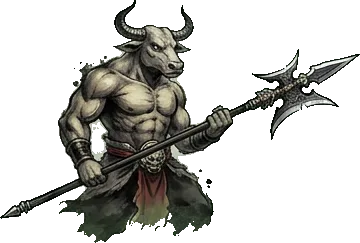
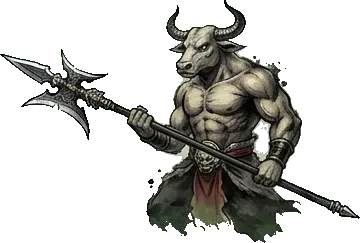
v180: 怪物属性浮动每项单独（攻击1.08~1.25 生命1.21~1.35 其他0.91~1.08）；实力测试用地图怪名和图；m18 翻转朝左

diff --git a/web/index.html b/web/index.html
@@ -6,7 +6,7 @@
 <meta name="theme-color" content="#14110f">
 <meta name="apple-mobile-web-app-capable" content="yes">
 <title>问道长生 · 文字修仙</title>
-<link rel="stylesheet" href="css/style.css?v=127">
+<link rel="stylesheet" href="css/style.css?v=128">
 </head>
 <body class="nologin">
 <div id="app">
@@ -53,76 +53,76 @@
     b.textContent += "脚本错误：" + e.filename.split("/").slice(-2).join("/").split("?")[0] + " 第 " + e.lineno + " 行：" + e.message + "\n";
   });
 </script>
-<script src="js/config/realm.js?v=127"></script>
-<script src="js/config/player.js?v=127"></script>
-<script src="js/config/array.js?v=127"></script>
-<script src="js/config/mobs.js?v=127"></script>
-<script src="js/config/explore.js?v=127"></script>
-<script src="js/config/drops.js?v=127"></script>
-<script src="js/config/worldmaps.js?v=127"></script>
-<script src="js/config/xingjun.js?v=127"></script>
-<script src="js/config/battle.js?v=127"></script>
-<script src="js/config/equip.js?v=127"></script>
-<script src="js/config/start.js?v=127"></script>
-<script src="js/config/gongfa.js?v=127"></script>
-<script src="js/config/lingen.js?v=127"></script>
-<script src="js/config/items.js?v=127"></script>
-<script src="js/config/alchemy.js?v=127"></script>
-<script src="js/config/furnace.js?v=127"></script>
-<script src="js/config/forge.js?v=127"></script>
-<script src="js/config/garden.js?v=127"></script>
-<script src="js/config/trib.js?v=127"></script>
-<script src="js/config/servant.js?v=127"></script>
-<script src="js/config/sect.js?v=127"></script>
-<script src="js/config/wudao.js?v=127"></script>
-<script src="js/config/craftsman.js?v=127"></script>
-<script src="js/config/mijing.js?v=127"></script>
-<script src="js/config/lingdi.js?v=127"></script>
-<script src="js/config/body.js?v=127"></script>
-<script src="js/config/names.js?v=127"></script>
-<script src="js/config/shenshi.js?v=127"></script>
+<script src="js/config/realm.js?v=128"></script>
+<script src="js/config/player.js?v=128"></script>
+<script src="js/config/array.js?v=128"></script>
+<script src="js/config/mobs.js?v=128"></script>
+<script src="js/config/explore.js?v=128"></script>
+<script src="js/config/drops.js?v=128"></script>
+<script src="js/config/worldmaps.js?v=128"></script>
+<script src="js/config/xingjun.js?v=128"></script>
+<script src="js/config/battle.js?v=128"></script>
+<script src="js/config/equip.js?v=128"></script>
+<script src="js/config/start.js?v=128"></script>
+<script src="js/config/gongfa.js?v=128"></script>
+<script src="js/config/lingen.js?v=128"></script>
+<script src="js/config/items.js?v=128"></script>
+<script src="js/config/alchemy.js?v=128"></script>
+<script src="js/config/furnace.js?v=128"></script>
+<script src="js/config/forge.js?v=128"></script>
+<script src="js/config/garden.js?v=128"></script>
+<script src="js/config/trib.js?v=128"></script>
+<script src="js/config/servant.js?v=128"></script>
+<script src="js/config/sect.js?v=128"></script>
+<script src="js/config/wudao.js?v=128"></script>
+<script src="js/config/craftsman.js?v=128"></script>
+<script src="js/config/mijing.js?v=128"></script>
+<script src="js/config/lingdi.js?v=128"></script>
+<script src="js/config/body.js?v=128"></script>
+<script src="js/config/names.js?v=128"></script>
+<script src="js/config/shenshi.js?v=128"></script>
 <!-- 自定义物品、坊市、宗门宝库、地图掉落（不是数值文件） -->
-<script src="js/content/items.js?v=127"></script>
-<script src="js/data/names.js?v=127"></script>
-<script src="js/data/realms.js?v=127"></script>
-<script src="js/data/pills.js?v=127"></script>
-<script src="js/data/cave.js?v=127"></script>
-<script src="js/data/sects.js?v=127"></script>
-<script src="js/data/gongfa.js?v=127"></script>
-<script src="js/data/items.js?v=127"></script>
-<script src="js/data/maps.js?v=127"></script>
-<script src="js/data/jiegf.js?v=127"></script>
-<script src="js/data/craft.js?v=127"></script>
-<script src="js/data/forge.js?v=127"></script>
-<script src="js/data/refstats.js?v=127"></script>
-<script src="js/data/mobs.js?v=127"></script>
+<script src="js/content/items.js?v=128"></script>
+<script src="js/data/names.js?v=128"></script>
+<script src="js/data/realms.js?v=128"></script>
+<script src="js/data/pills.js?v=128"></script>
+<script src="js/data/cave.js?v=128"></script>
+<script src="js/data/sects.js?v=128"></script>
+<script src="js/data/gongfa.js?v=128"></script>
+<script src="js/data/items.js?v=128"></script>
+<script src="js/data/maps.js?v=128"></script>
+<script src="js/data/jiegf.js?v=128"></script>
+<script src="js/data/craft.js?v=128"></script>
+<script src="js/data/forge.js?v=128"></script>
+<script src="js/data/refstats.js?v=128"></script>
+<script src="js/data/mobs.js?v=128"></script>
 
-<script src="js/core/util.js?v=127"></script>
-<script src="js/core/api.js?v=127"></script>
-<script src="js/core/game.js?v=127"></script>
+<script src="js/core/util.js?v=128"></script>
+<script src="js/core/api.js?v=128"></script>
+<script src="js/core/game.js?v=128"></script>
 
-<script src="js/modules/player.js?v=127"></script>
-<script src="js/modules/cave.js?v=127"></script>
-<script src="js/modules/bag.js?v=127"></script>
-<script src="js/modules/custom.js?v=127"></script>
-<script src="js/modules/gongfa.js?v=127"></script>
-<script src="js/modules/sect.js?v=127"></script>
-<script src="js/modules/cultivate.js?v=127"></script>
-<script src="js/modules/trib.js?v=127"></script>
-<script src="js/modules/body.js?v=127"></script>
-<script src="js/modules/world.js?v=127"></script>
-<script src="js/modules/xingjun.js?v=127"></script>
-<script src="js/modules/lingen.js?v=127"></script>
-<script src="js/modules/craft.js?v=127"></script>
-<script src="js/modules/wudao.js?v=127"></script>
-<script src="js/modules/shenshi.js?v=127"></script>
-<script src="js/modules/garden.js?v=127"></script>
-<script src="js/modules/servant.js?v=127"></script>
-<script src="js/modules/gift.js?v=127"></script>
-<script src="js/modules/accounts.js?v=127"></script>
-<script src="js/modules/battleset.js?v=127"></script>
-<script src="js/modules/account.js?v=127"></script>
-<script src="js/core/fastsim.js?v=127"></script>
+<script src="js/modules/player.js?v=128"></script>
+<script src="js/modules/cave.js?v=128"></script>
+<script src="js/modules/bag.js?v=128"></script>
+<script src="js/modules/custom.js?v=128"></script>
+<script src="js/modules/gongfa.js?v=128"></script>
+<script src="js/modules/sect.js?v=128"></script>
+<script src="js/modules/cultivate.js?v=128"></script>
+<script src="js/modules/trib.js?v=128"></script>
+<script src="js/modules/body.js?v=128"></script>
+<script src="js/modules/world.js?v=128"></script>
+<script src="js/modules/xingjun.js?v=128"></script>
+<script src="js/modules/lingen.js?v=128"></script>
+<script src="js/modules/craft.js?v=128"></script>
+<script src="js/modules/wudao.js?v=128"></script>
+<script src="js/modules/shenshi.js?v=128"></script>
+<script src="js/modules/garden.js?v=128"></script>
+<script src="js/modules/servant.js?v=128"></script>
+<script src="js/modules/gift.js?v=128"></script>
+<script src="js/modules/accounts.js?v=128"></script>
+<script src="js/modules/battleset.js?v=128"></script>
+<script src="js/modules/account.js?v=128"></script>
+<script src="js/core/fastsim.js?v=128"></script>
 
 <script>G.init();</script>
 </body>

diff --git a/web/js/modules/sect.js b/web/js/modules/sect.js
@@ -105,8 +105,8 @@ G.module({
     /* ---------- 晋升考验（config/sect.js 的 sect.rankTrial） ---------- */
     rankTrialCost(i) { return Math.floor(((CFG.sect.rankTrial.cost || [])[i] || 0) * this.starMul()); },
     makeRankGuard(i) {
-      const b = DATA.mobStats(DATA.mobExam(this.sectInfo().star, i), DATA.mobCrit("考官")), v = x => x * DATA.mobRnd();   // config/mobs.js 的 sect
-      return this.addMagic({ name: `${DATA.ranks[i].name}考官`, boss: false, hp: v(b.hp), atk: v(b.atk), def: v(b.def), speed: v(b.speed), hit: v(b.hit), dodge: v(b.dodge), mana: v(b.mana), res: v(b.res), manaBr: b.manaBr, L: b.L, crit: b.crit }, "tower");
+      const b = DATA.mobStats(DATA.mobExam(this.sectInfo().star, i), DATA.mobCrit("考官")), v = (x, k) => x * DATA.mobRnd(k);   // config/mobs.js 的 sect
+      return this.addMagic({ name: `${DATA.ranks[i].name}考官`, boss: false, hp: v(b.hp, "hp"), atk: v(b.atk, "atk"), def: v(b.def, "def"), speed: v(b.speed, "speed"), hit: v(b.hit, "hit"), dodge: v(b.dodge, "dodge"), mana: v(b.mana, "mana"), res: v(b.res, "res"), manaBr: b.manaBr, L: b.L, crit: b.crit }, "tower");
     },
     challengeRank() {
       const s = this.s, i = s.rank + 1; if (i >= DATA.ranks.length || s.rankPass === i) return;
@@ -348,7 +348,7 @@ G.module({
     makeTowerGuard(floor) {
       const T = CFG.sect.tower, star = this.sectInfo().star, R = (CFG.sect.REQ_REALM || [])[star - 1] || 0;
       const tw = DATA.towerStage(star, floor, this.towerMax());
-      if (tw) { const m = {}; for (const k of DATA.REF_KEYS) m[k] = tw[k] * DATA.mobRnd(); m.crit = tw.crit; m.manaBr = tw.manaBr; return this.addMagic(Object.assign(m, { name: `第${floor}层守关者`, boss: false }), "tower"); }
+      if (tw) { const m = {}; for (const k of DATA.REF_KEYS) m[k] = tw[k] * DATA.mobRnd(k); m.crit = tw.crit; m.manaBr = tw.manaBr; return this.addMagic(Object.assign(m, { name: `第${floor}层守关者`, boss: false }), "tower"); }
       const m = DATA.refMob(DATA.refStats(R, T.LAYER || 5, T.GF === undefined ? 5 : T.GF), T.MULT, Math.pow(T.GROW, floor - 1)); m.L = R * DATA.LAYERS + (T.LAYER || 5) - 1;
       return this.addMagic(Object.assign(m, { name: `第${floor}层守关者`, boss: false }), "tower");
     },
@@ -424,8 +424,10 @@ G.module({
     },
     testFight() {
       const t = this.testMobT(), kd = this.testPick().k, b = DATA.mobRoll(t, DATA.mobCrit(DATA.MOB_KIND[kd]));   // v168 学哪些功法、每本几层随机
-      const v = x => x * DATA.mobRnd();   // 和地图普通怪一样每项随机浮动
-      const m = this.addMagic({ name: this.testMobName(), kind: kd, boss: kd === "boss", elite: kd === "elite", hp: v(b.hp), atk: v(b.atk), def: v(b.def), speed: v(b.speed), hit: v(b.hit), dodge: v(b.dodge), mana: v(b.mana), res: v(b.res), manaBr: b.manaBr, L: b.L, crit: b.crit }, kd);
+      const v = (x, k) => x * DATA.mobRnd(k);   // 和地图普通怪一样每项随机浮动
+      const p = this.testPick(), a = Math.floor(p.a / 4), r = p.a % 4, mp = DATA.maps[a];   // v180 名字 / 图同地图里的怪（图按名字找）
+      const nm = kd === "boss" ? DATA.regionBoss(a, r) : (kd === "elite" ? "精英·" : "") + U.pick(mp.monsters);
+      const m = this.addMagic({ name: nm, a, kind: kd, boss: kd === "boss", elite: kd === "elite", hp: v(b.hp, "hp"), atk: v(b.atk, "atk"), def: v(b.def, "def"), speed: v(b.speed, "speed"), hit: v(b.hit, "hit"), dodge: v(b.dodge, "dodge"), mana: v(b.mana, "mana"), res: v(b.res, "res"), manaBr: b.manaBr, L: b.L, crit: b.crit }, kd);
       const res = this.battle(m, { test: true });
       this.playBattle(res.detail, "实力测试", "", true, [], false, { test: true, tname: this.testMobName() });
     },
@@ -436,7 +438,7 @@ G.module({
       const st = [["生命", b.hp], ["攻击", b.atk], ["防御", b.def], ["速度", b.speed], ["命中", b.hit], ["闪避", b.dodge], ["法力", b.mana], ["抗性", b.res]].map(([k, v]) => `${k} ${U.fmt(v)}`).join("　") + `　暴击 ${U.num(b.crit)}%`;
       return `<div class="card"><h3>实力测试<small>不扣生命，可随时关闭</small></h3>
         <div class="line"><div>对手</div><div class="sg-btns">${this.selBox("testA", this.testMapOpts(), p.a, v => this.setTestPick("a", +v))}${this.selBox("testK", kOpts, p.k, v => this.setTestPick("k", v))}</div></div>
-        <p class="desc">${this.testMobName()}：${DATA.realms[R.realm] || ""}${R.lay[0] === R.lay[1] ? DATA.layerNames[R.lay[0] - 1] : `${rg(R.lay)}层随机`}（属性为平均值，战斗时每项 ×${(CFG.mobs.RAND || [1, 1]).join("~")} 随机）<br>${st}</p>
+        <p class="desc">${this.testMobName()}：${DATA.realms[R.realm] || ""}${R.lay[0] === R.lay[1] ? DATA.layerNames[R.lay[0] - 1] : `${rg(R.lay)}层随机`}（属性为平均值，战斗时攻击 ×${DATA.mobRandOf("atk").join("~")}、生命 ×${DATA.mobRandOf("hp").join("~")}、其他 ×${DATA.mobRandOf("def").join("~")} 随机）<br>${st}</p>
         <p class="desc">法术：每回合 ${M.spell ? M.spell.chance : 0}% 几率，伤害 攻击×${M.spell ? M.spell.pct : 0}%　法宝：每回合 ${M.fabao ? M.fabao.chance : 0}% 几率，伤害 攻击×${M.fabao ? M.fabao.pct : 0}%</p>
         ${n ? (() => { return `<details class="desc"><summary>功法：${t[3] > 1 ? `1~${t[3]}` : t[3]}星宗门功法 ${n} 部，每个种类随机学 ${rg(R.pct)}%，每本随机练到 ${rg(R.gf)} 层（显示属性为平均值）</summary>${gf.map(([nm, l]) => `<p><b>${nm}</b>：${l.join("、")}</p>`).join("")}</details>`; })() : `<p class="desc">功法：无</p>`}
         <div class="btns"><button onclick="G.testFight()">开始测试</button></div></div>`;

diff --git a/web/js/modules/world.js b/web/js/modules/world.js
@@ -104,10 +104,10 @@ G.module({
     // 生成怪物：a 地图、r 区域、kind = normal 普通 / elite 精英 / boss 首领（属性见 js/config/ 数值文件 monster.regions）
     makeMob(a, r, kind) {
       const R = DATA.region(a, r), b = DATA.mobMeet(R, kind), map = DATA.maps[a];   // v168 每次遇到随机层 / 功法
-      const v = x => x * DATA.mobRnd();   // × 随机浮动
+      const v = (x, k) => x * DATA.mobRnd(k);   // × 随机浮动
       const name = kind === "boss" ? DATA.regionBoss(a, r) : (kind === "elite" ? "精英·" : "") + U.pick(map.monsters);
       return this.addMagic({ name, Lm: R.L, kind, boss: kind === "boss", elite: kind === "elite",
-        hp: v(b.hp), atk: v(b.atk), def: v(b.def), speed: v(b.speed), hit: v(b.hit), dodge: v(b.dodge), mana: v(b.mana), res: v(b.res), manaBr: b.manaBr, L: b.L, crit: b.crit }, kind);
+        hp: v(b.hp, "hp"), atk: v(b.atk, "atk"), def: v(b.def, "def"), speed: v(b.speed, "speed"), hit: v(b.hit, "hit"), dodge: v(b.dodge, "dodge"), mana: v(b.mana, "mana"), res: v(b.res, "res"), manaBr: b.manaBr, L: b.L, crit: b.crit }, kind);
     },
 
     // 给怪物加 属性 / 六系抗性 / 法术 / 法宝（config/mobs.js 的 mobs.magic）
@@ -764,10 +764,10 @@ G.module({
     },
     // 秘境 / 灵地怪物：属性在 js/data/mobs.js 按 config/mobs.js 生成
     makeMjMob(i, kind, k) {
-      const d = this.mjDef(i, k), b = DATA.mobMeet(d, kind), v = x => x * DATA.mobRnd();
+      const d = this.mjDef(i, k), b = DATA.mobMeet(d, kind), v = (x, k) => x * DATA.mobRnd(k);
       const name = kind === "boss" ? d.bossName : (kind === "elite" ? "精英·" : "") + U.pick(d.monsters);
       return this.addMagic({ name, Lm: d.L, kind, boss: kind === "boss", elite: kind === "elite",
-        hp: v(b.hp), atk: v(b.atk), def: v(b.def), speed: v(b.speed), hit: v(b.hit), dodge: v(b.dodge), mana: v(b.mana), res: v(b.res), manaBr: b.manaBr, L: b.L, crit: b.crit }, kind);
+        hp: v(b.hp, "hp"), atk: v(b.atk, "atk"), def: v(b.def, "def"), speed: v(b.speed, "speed"), hit: v(b.hit, "hit"), dodge: v(b.dodge, "dodge"), mana: v(b.mana, "mana"), res: v(b.res, "res"), manaBr: b.manaBr, L: b.L, crit: b.crit }, kind);
     },
     // 秘境 / 灵地掉落 = 借用地图的药材矿石表（种数个数按 CFG.dropRule.mijing / lingdi，× 自己的 mat）+ extra 额外掉落
     //   秘境借用 drops 那张凡界地图；灵地借用发现地图（这一界的药材矿石表）

diff --git a/web/js/config/mobs.js b/web/js/config/mobs.js
@@ -31,7 +31,7 @@
  *               + 肉身突破属性（肉身突破到同样层数的合计，见 config/realm.js 的 BODY_GAIN）
  *   功法属性 = 1 ~ 功法星级、功法来源里的全部功法、全部类别都练到「功法层」的加成
  *   怪物基础属性 = (人物境界属性 + 宗门功法属性) × 倍率        （装备、丹药、灵根、秘法都不算）
- *   遇到时：生命 / 攻击 / 防御 / 速度 / 命中 / 闪避 / 法力 = 怪物基础属性 × 随机(RAND[0] ~ RAND[1])，每项各自随机
+ *   遇到时：每项属性 = 怪物基础属性 × 随机(RAND 里这项的 [最小, 最大])，每项各自随机
  *   暴击% = 下面 CRIT（固定，不乘倍率、不浮动）
  *   总层序 = 境界 × 10 + 层 − 1；肉身按同样层数算（例：金丹三层 = 肉身锻骨三层）
  *
@@ -41,7 +41,12 @@
 window.CFG = window.CFG || {};
 
 CFG.mobs = {
-  RAND: [0.98, 1.08],   // 随机浮动：遇到时每项属性各自 × 随机(0.98 ~ 1.08)
+  // 随机浮动（v180 每种属性单独设置）：遇到时每项属性各自 × 随机(最小 ~ 最大)；没写的属性用「其他」
+  RAND: {
+    atk: [1.08, 1.25],   // 攻击
+    hp: [1.21, 1.35],    // 气血（生命）
+    其他: [0.91, 1.08],  // 防御、速度、命中、闪避、法力、抗性
+  },
 
   FAN_L: [0, 3, 6, 9],   // 凡界区域层序 L = 地图序号(0起) × 10 + 这个（东 西 南 北）；只用来算灵石掉落（config/drops.js）
 

diff --git a/web/js/modules/xingjun.js b/web/js/modules/xingjun.js
@@ -88,9 +88,9 @@ G.module({
     },
     // NPC：属性按 config/mobs.js 的 [进入境界, 境界, 层, 功法层, 倍率]（tu）生成；ck = 暴击分类（天将 / 星君 / 界主）
     xjNpc(a, name, tu, ck) {
-      const b = DATA.mobRoll(tu, DATA.mobCrit(ck)), v = x => x * DATA.mobRnd();   // v168 功法随机
+      const b = DATA.mobRoll(tu, DATA.mobCrit(ck)), v = (x, k) => x * DATA.mobRnd(k);   // v168 功法随机
       const m = this.addMagic({ name, a, Lm: DATA.region(a, 3).L, kind: "boss", boss: true,
-        hp: v(b.hp), atk: v(b.atk), def: v(b.def), speed: v(b.speed), hit: v(b.hit), dodge: v(b.dodge), mana: v(b.mana), res: v(b.res), manaBr: b.manaBr, L: b.L, crit: b.crit }, "boss");
+        hp: v(b.hp, "hp"), atk: v(b.atk, "atk"), def: v(b.def, "def"), speed: v(b.speed, "speed"), hit: v(b.hit, "hit"), dodge: v(b.dodge, "dodge"), mana: v(b.mana, "mana"), res: v(b.res, "res"), manaBr: b.manaBr, L: b.L, crit: b.crit }, "boss");
       // 战斗秘法：天将 / 星君 / 界主固定种数（config/wudao.js MOB_MIFA.官位）
       const MM = CFG.wudao.MOB_MIFA || {}, N = (MM.官位 || {})[ck];
       if (N) { const pool = (MM.POOL || []).slice(); let n = N[0] + Math.floor(Math.random() * (N[1] - N[0] + 1)); m.mf = []; while (n-- > 0 && pool.length) m.mf.push(pool.splice(Math.floor(Math.random() * pool.length), 1)[0]); }

diff --git a/web/js/data/mobs.js b/web/js/data/mobs.js
@@ -11,7 +11,9 @@
 DATA.MOB_KIND = { normal: "普通", elite: "精英", boss: "首领" };
 DATA.MOB_KEYS = ["hp", "atk", "def", "speed", "hit", "dodge", "mana", "res"];
 // 遇到时的随机倍率
-DATA.mobRnd = () => { const R = CFG.mobs.RAND || [1, 1]; return R[0] + Math.random() * (R[1] - R[0]); };
+// v180 RAND 每种属性单独：{ atk: [a, b], hp: [a, b], 其他: [a, b] }（旧写法 [a, b] 也认）
+DATA.mobRandOf = k => { const R = CFG.mobs.RAND || [1, 1]; return Array.isArray(R) ? R : R[k] || R["其他"] || [1, 1]; };
+DATA.mobRnd = k => { const R = DATA.mobRandOf(k); return R[0] + Math.random() * (R[1] - R[0]); };
 // 肉身突破 n 次的合计加成（同 modules/body.js bodyBonus）
 DATA.mobBody = n => { const o = {}; for (const k of DATA.MOB_KEYS) o[k] = DATA.bodyStat(n, k); return o; };
 // v168 一行怪物数据统一成对象。两种写法都认：

diff --git a/web/js/data/forge.js b/web/js/data/forge.js
@@ -279,7 +279,7 @@ DATA.fabaoInfo = (e, own) => {
  *   img/icons/pill_丹药id.png 修炼丹、dan_类型.png 属性丹、fu_dan / fu_qi.png 炉子、ss.png 空间石
  *   fbs形状_属性.png 法宝（7 种形状 × 6 种属性）、sm_ys属性.png 耀石、mifa.png 秘法、seed.png 种子、stone.png 灵石、cu_*.png 自定义物品
  *   hx.png 火髓、bp.png 图纸 */
-DATA.IMG_V = 6;
+DATA.IMG_V = 7;
 DATA.matImg = (kind, g) => `img/mats/${kind}${g}.png?v=${DATA.IMG_V}`;
 DATA.iconImg = n => `img/icons/${n}.png?v=${DATA.IMG_V}`;
 DATA.ICON_EQ = ["helmet", "armor", "weapon", "legs", "boots", "pendant", "ring"];
